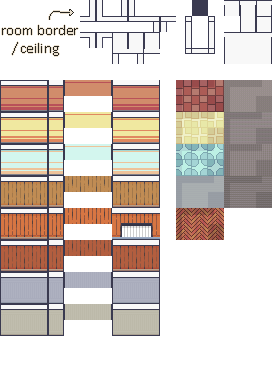
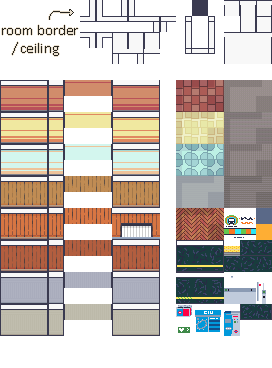
hall medicina implementado

Changed region(s): [[0.6471, 0.5679, 1.0, 0.9266]]

diff --git a/src/scenes/medicina_2.js b/src/scenes/medicina_2.js
@@ -1,0 +1,96 @@
+import Item from "../gameObjects/items/item.js";
+import Player from "../gameObjects/characters/player.js";
+import Phaser from "phaser";
+import Enemy from "../gameObjects/enemies/enemy.js";
+import RangedEnemy from "../gameObjects/enemies/rangedEnemy.js";
+import SalaBase from "../scenes/salaBase.js";
+import WakeEnemy from "../gameObjects/enemies/wakeEnemy.js";
+import AssaultEnemy from "../gameObjects/enemies/assaultEnemy.js";
+
+/**
+ * Escena principal del juego. La escena se compone de una serie de plataformas
+ * sobre las que se sitúan las bases en las podrán aparecer las estrellas.
+ * El juego comienza generando aleatoriamente una base sobre la que generar una estrella.
+ * @abstract Cada vez que el jugador recoge la estrella, aparece una nueva en otra base.
+ * El juego termina cuando el jugador ha recogido 10 estrellas.
+ * @extends Phaser.Scene
+ */
+export default class medicina_2 extends SalaBase {
+  /**
+   * Constructor de la escena
+   */
+  constructor() {
+    super("medicina_2");
+  }
+
+  /**
+   * Creación de los elementos de la escena principal de juego
+   */
+  create() {
+    super.create(this.data);
+
+    var map = this.make.tilemap({ key: 'medicina_2' }); // Cargamos el mapa
+
+    const tileset1 = map.addTilesetImage('Interior16', 'Interior');
+    const tileset2 = map.addTilesetImage('ParedSuelo16', 'Muebles');
+
+    console.log("Tileset cargados");
+
+    const layer1 = map.createLayer('suelo', [tileset1, tileset2], 0, 0);
+    const layer2 = map.createLayer('pared', [tileset1, tileset2], 0, 0);
+    const layer3 = map.createLayer('bordes', [tileset1, tileset2], 0, 0);
+    const layer4 = map.createLayer('objetos', [tileset1, tileset2], 0, 0);
+    const layer5 = map.createLayer('sin colision', [tileset1, tileset2], 0, 0);
+
+    layer2.setCollisionByExclusion([-1], true);
+    layer3.setCollisionByExclusion([-1], true);
+    layer4.setCollisionByExclusion([-1], true);
+
+    
+    this.transitionZones = this.physics.add.group();
+    let transitionLayer = map.getObjectLayer("transiciones");
+    transitionLayer.objects.forEach(obj => {
+      const zone = this.transitionZones.create(obj.x, obj.y, null).setSize(obj.width, obj.height);
+      zone.spawnRoom = obj.properties.find(p => p.name === "spawnRoom")?.value;
+      zone.spawnX = obj.properties.find(p => p.name === "spawnX")?.value;
+      zone.spawnY = obj.properties.find(p => p.name === "spawnY")?.value;
+      zone.prev = "medicina_2";
+    });
+    this.transitionZones.setVisible(false);
+    this.physics.add.overlap(this.player, this.transitionZones, this.cambiarSala, null, this);
+
+    console.log("Capas cargadas");
+
+    this.player = new Player(this, this.xSpawn, this.ySpawn, this.playerStats);
+
+    this.physics.world.setBounds(0, 0, 512, 320);
+    this.stars = 10;
+    this.bases = this.add.group();
+    this.platformGroup = this.physics.add.staticGroup();
+    this.bulletGroup = this.physics.add.group();
+    this.enemyGroup = this.physics.add.group();
+    this.enemyBulletGroup = this.physics.add.group();
+
+    console.log("Grupos creados");
+
+    this.cameras.main.setBounds(0, 0, 512, 320);
+    this.cameras.main.startFollow(this.player, true, 0.1, 0.1); // Suavizado
+    this.cameras.main.setZoom(1.8);
+    this.physics.add.collider(this.player, layer5);
+
+    console.log("Camara configurada");
+    // Añadir colisión con el jugador
+    this.physics.add.collider(this.player, layer2);
+    this.physics.add.collider(this.player, layer3);
+    this.physics.add.collider(this.player, layer4);
+    this.physics.add.collider(this.enemyGroup, layer2);
+    this.physics.add.collider(this.enemyGroup, layer3);
+    this.physics.add.collider(this.enemyGroup, layer4);
+    this.physics.add.collider(this.bulletGroup, layer2, this.onBulletCollision);
+    this.physics.add.collider(this.bulletGroup, layer3, this.onBulletCollision);
+    this.physics.add.collider(this.bulletGroup, layer4, this.onBulletCollision);
+    this.physics.add.collider(this.enemyBulletGroup, layer2, this.onBulletCollision);
+    this.physics.add.collider(this.enemyBulletGroup, layer3, this.onBulletCollision);
+    this.physics.add.collider(this.enemyBulletGroup, layer4, this.onBulletCollision);
+  }
+}

diff --git a/src/scenes/introMedicina.js b/src/scenes/introMedicina.js
@@ -100,10 +100,10 @@ export default class introMedicina extends SalaBase {
     // Añadir colisión con el jugador
     this.physics.add.collider(this.player, this.troncos);
     this.physics.add.collider(this.player, layer6);
-    this.physics.add.collider(this.enemyGroup, layer5);
+    this.physics.add.collider(this.enemyGroup, layer6);
     this.physics.add.collider(this.bulletGroup, this.troncos, this.onBulletCollision);
     this.physics.add.collider(this.enemyBulletGroup, this.troncos, this.onBulletCollision);
-    this.physics.add.collider(this.bulletGroup, layer5, this.onBulletCollision);
-    this.physics.add.collider(this.enemyBulletGroup, layer5, this.onBulletCollision);
+    this.physics.add.collider(this.bulletGroup, layer6, this.onBulletCollision);
+    this.physics.add.collider(this.enemyBulletGroup, layer6, this.onBulletCollision);
   }
 }

diff --git a/src/game.js b/src/game.js
@@ -10,7 +10,7 @@ import Phaser from 'phaser';
 import InformaticaManager from './scenes/informaticaManager.js';
 import MedicinaManager from './scenes/medicinaManager.js';
 import IntroMedicina from './scenes/introMedicina.js';
-import hallMedicina from './scenes/hallMedicina.js';
+import Medicina_2 from './scenes/medicina_2.js';
 
 
 /**
@@ -27,7 +27,7 @@ let config = {
         autoCenter: Phaser.Scale.CENTER_HORIZONTALLY
     },
     pixelArt: true,
-    scene: [Boot, MainMenu, PauseMenu, SelectorNivel, InformaticaManager, CafeFDI, PasilloFDI, BibliotecaFDI, MedicinaManager, IntroMedicina, hallMedicina, End],
+    scene: [Boot, MainMenu, PauseMenu, SelectorNivel, InformaticaManager, CafeFDI, PasilloFDI, BibliotecaFDI, MedicinaManager, IntroMedicina, Medicina_2, End],
     physics: {
         default: 'arcade',
         arcade: {

diff --git a/src/scenes/medicinaManager.js b/src/scenes/medicinaManager.js
@@ -16,6 +16,7 @@ import zombie_shoot from "../../assets/sprites/zombie_shoot.png";
 
 //MAPAS Y TILES ------------------------------------------------------
 import introMedicina from "../../assets/map/introMedicina.json";
+import medicina_2 from "../../assets/map/hallMedicina.json";
 import img_interior from "../../assets/map/Interiors_free_16x16.png";
 import img_muebles from "../../assets/map/Room_Builder_free_16x16.png";
 import tileset_grass from "../../assets/map/TX Tileset Grass.png";
@@ -140,6 +141,7 @@ export default class medicinaManager extends Phaser.Scene {
 
     //TODO AÑADIR TILEDJSON (MAPA)
     this.load.tilemapTiledJSON("introMedicina", introMedicina);
+    this.load.tilemapTiledJSON("medicina_2", medicina_2);
     
     //items del player
     this.load.spritesheet("player_item_isaac", player_item_isaac,{
